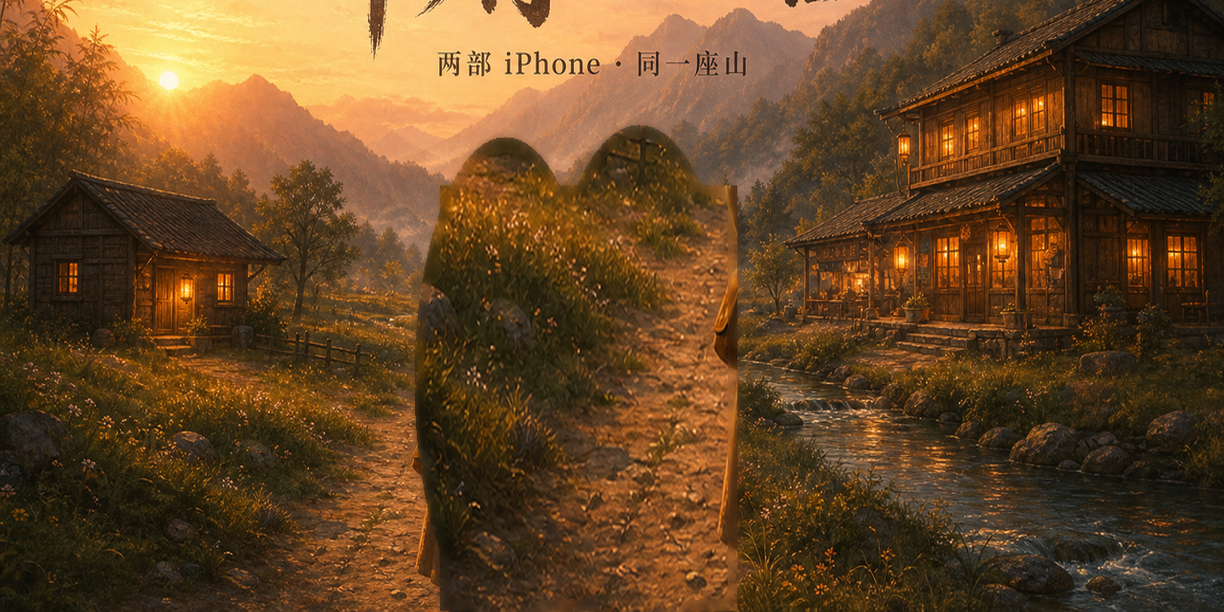
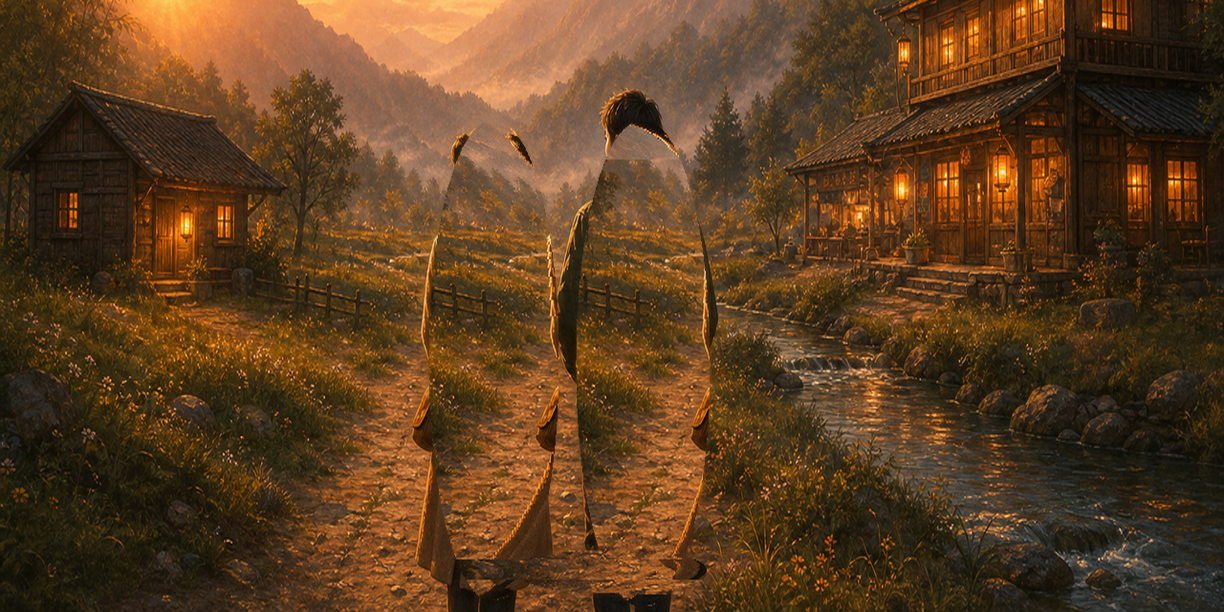
Strip valley overlays so the enter frame is one painting.
Crops stay in logic but are not hung on the bed. Hide the valley atlas.
Lift baked coats with a same-y path clone and crop the cover title off.
Give the cover coats a path contact shadow.

diff --git a/godot/project.test.ts b/godot/project.test.ts
@@ -160,7 +160,9 @@ test("Valley look is one dusk illustration, not DST stickers", () => {
   assert.match(playSrc, /ValleyWorld/);
   assert.doesNotMatch(valley, /prop-cover-tree|prop-cover-lamp|prop-cover-shore|prop-cover-verge|prop-hut|prop-lodge/);
   assert.doesNotMatch(logic, /prop-cover-tree|prop-cover-lamp|prop-cover-shore|prop-cover-verge|prop-hut|prop-lodge/);
+  assert.doesNotMatch(logic, /Look\.hung/);
   assert.doesNotMatch(playSrc, /prop-cover-tree|prop-hut\.png|prop-lodge\.png/);
+  assert.match(playSrc, /_tiles\.is_empty\(\) or _zone == "valley"/);
   assert.doesNotMatch(valley, /prop-mine\.png/);
   assert.doesNotMatch(valley, /prop-stall\.png/);
   assert.doesNotMatch(valley, /prop-anvil\.png/);
@@ -228,7 +230,10 @@ test("Valley look is one dusk illustration, not DST stickers", () => {
   const bedPaint = readFileSync("tools/paint_valley_bed.py", "utf8");
   assert.match(bedPaint, /Does not touch the cover/);
   assert.match(bedPaint, /bed-valley/);
+  assert.match(bedPaint, /CROP_Y0 = 302/);
+  assert.match(bedPaint, /PATH_LO, PATH_HI/);
   assert.doesNotMatch(bedPaint, /save\(.*cover-valley/);
+  assert.doesNotMatch(bedPaint, /resize\(\(x1 - x0/);
   assert.doesNotMatch(valley, /floor-valley|ground-valley|_bend\(/);
   assert.doesNotMatch(valley, /band-river|band-path|band-meadow/);
   const floorPaint = readFileSync("tools/paint_valley_sit.py", "utf8");
@@ -352,7 +357,11 @@ test("Godot village shows crops, fortune and the dawn board from the same snap",
   const valley = readFileSync("godot/scripts/valley_logic.gd", "utf8");
   assert.match(valley, /show_crops/);
   assert.match(valley, /prop-tuft|prop-bush/);
+  assert.doesNotMatch(valley, /Look\.hung/);
+  assert.doesNotMatch(valley, /add_child\(_crop_at/);
   assert.doesNotMatch(valley, /prop-cabin|prop-inn/);
+  assert.match(play, /_zone == "valley"/);
+  assert.match(play, /_atlas\.visible = false/);
   const world = readFileSync("src/sim/world.ts", "utf8");
   assert.match(world, /没有种。田不用浇/);
   assert.match(world, /也得对着铺/);

diff --git a/tools/paint_valley_bed.py b/tools/paint_valley_bed.py
@@ -13,42 +13,88 @@ OUT = ROOT / "godot/assets/art/bed-valley.png"
 
 # World size (TILE 36 × 34×17).
 W, H = 1224, 612
+# Below 并肩山谷 and 「两部 iPhone · 同一座山」. Lodge roof stays in frame.
+CROP_Y0 = 302
+# Same-row dirt path, left of the pair. Never a resized plate.
+PATH_LO, PATH_HI = 220, 448
 
 
 def _people_mask(h: int, w: int) -> np.ndarray:
+    """Tight 暖 / 松 / 点灯进谷. Leave a path gap between the coats."""
     yy, xx = np.ogrid[:h, :w]
-    warm = ((xx - 528) / 95.0) ** 2 + ((yy - 530) / 200.0) ** 2 <= 1.0
-    pine = ((xx - 668) / 100.0) ** 2 + ((yy - 530) / 210.0) ** 2 <= 1.0
-    pair = (xx >= 460) & (xx <= 770) & (yy >= 370) & (yy <= 718)
-    return warm | pine | pair
+    warm = ((xx - 516) / 66.0) ** 2 + ((yy - 548) / 162.0) ** 2 <= 1.0
+    pine = ((xx - 672) / 68.0) ** 2 + ((yy - 550) / 164.0) ** 2 <= 1.0
+    bag = ((xx - 482) / 24.0) ** 2 + ((yy - 556) / 46.0) ** 2 <= 1.0
+    cta = ((xx - 640) / 96.0) ** 2 + ((yy - 692) / 13.0) ** 2 <= 1.0
+    return warm | pine | bag | cta
+
+
+def _dilate(mask: np.ndarray, radius: int = 2) -> np.ndarray:
+    img = Image.fromarray((mask.astype(np.uint8) * 255), "L")
+    img = img.filter(ImageFilter.MaxFilter(radius * 2 + 1))
+    return np.asarray(img) > 127
+
+
+def _safe_path(mask_row: np.ndarray, w: int) -> np.ndarray:
+    cols = [x for x in range(PATH_LO, min(PATH_HI, w)) if not mask_row[x]]
+    if len(cols) < 8:
+        cols = [x for x in range(180, min(PATH_HI, w)) if not mask_row[x]]
+    return np.asarray(cols, dtype=np.int32)
+
+
+def _runs(xs: np.ndarray) -> list[tuple[int, int]]:
+    out: list[tuple[int, int]] = []
+    start = int(xs[0])
+    prev = start
+    for raw in xs[1:]:
+        x = int(raw)
+        if x == prev + 1:
+            prev = x
+            continue
+        out.append((start, prev + 1))
+        start = x
+        prev = x
+    out.append((start, prev + 1))
+    return out
 
 
 def lift_cover(rgb: np.ndarray) -> np.ndarray:
-    """One dirt plate over baked 暖/松 and 点灯进谷. Do not tile scraps."""
+    """1:1 same-y path clone per coat. No nearest-column pillar, no resized plate."""
+    h, w = rgb.shape[:2]
+    core = _dilate(_people_mask(h, w), 2)
     out = rgb.copy()
-    mask = _people_mask(*rgb.shape[:2])
-    ys, xs = np.where(mask)
-    x0, x1 = int(xs.min()), int(xs.max()) + 1
-    y0, y1 = int(ys.min()), int(ys.max()) + 1
-    dirt = Image.fromarray(rgb[500:720, 190:450], "RGB").resize((x1 - x0, y1 - y0), Image.Resampling.LANCZOS)
-    plate = np.asarray(dirt)
-    local = mask[y0:y1, x0:x1]
-    hole = out[y0:y1, x0:x1]
-    hole[local] = plate[local]
-    out[y0:y1, x0:x1] = hole
-    ring = Image.fromarray((mask.astype(np.uint8) * 255), "L").filter(ImageFilter.GaussianBlur(8))
-    alpha = np.asarray(ring).astype(np.float32) / 255.0
-    edge = (alpha > 0.05) & (alpha < 0.88)
-    blur = np.asarray(Image.fromarray(out).filter(ImageFilter.GaussianBlur(3)))
-    t = np.clip((alpha - 0.05) / 0.83, 0, 1)[:, :, None]
-    mixed = (out.astype(np.float32) * (1.0 - t) + blur.astype(np.float32) * t).astype(np.uint8)
-    out = np.where(edge[:, :, None], mixed, out)
+    for y in range(h):
+        bad = np.flatnonzero(core[y])
+        if bad.size == 0:
+            continue
+        safe = _safe_path(core[y], w)
+        for x0, x1 in _runs(bad):
+            width = x1 - x0
+            src0 = x0 - width
+            src1 = x0
+            if src0 >= 0 and not np.any(core[y, src0:src1]):
+                out[y, x0:x1] = rgb[y, src0:src1]
+                continue
+            if safe.size >= width:
+                out[y, x0:x1] = rgb[y, safe[-width:]]
+            elif safe.size:
+                t = np.linspace(0, safe.size - 1, width)
+                out[y, x0:x1] = rgb[y, safe[np.round(t).astype(np.int32)]]
+    ring = np.asarray(
+        Image.fromarray((core.astype(np.uint8) * 255), "L").filter(ImageFilter.GaussianBlur(5))
+    ).astype(np.float32) / 255.0
+    edge = (ring > 0.04) & (ring < 0.92) & (~core)
+    if np.any(edge):
+        blur = np.asarray(Image.fromarray(out).filter(ImageFilter.GaussianBlur(2)))
+        t = np.clip((ring - 0.04) / 0.88, 0, 1)[:, :, None]
+        mixed = (out.astype(np.float32) * (1.0 - t) + blur.astype(np.float32) * t).astype(np.uint8)
+        out = np.where(edge[:, :, None], mixed, out)
     return out
 
 
 def compose(clean: np.ndarray) -> Image.Image:
-    """One continuous scale. Crop the title sky so play has valley, not 字."""
-    band = clean[218:720, 0:1280]
+    """One continuous scale. Crop title sky so play has valley, not 字."""
+    band = clean[CROP_Y0:720, 0:1280]
     bed = Image.fromarray(band, "RGB").resize((W, H), Image.Resampling.LANCZOS)
     return bed
 

diff --git a/production/qa/evidence/packed-bed-evidence.md b/production/qa/evidence/packed-bed-evidence.md
@@ -6,26 +6,41 @@
 
 ## What changed
 
-- New graph: `godot/scenes/play.tscn` → `godot/scenes/valley.tscn` (`ValleyWorld` + `Bed` + `ValleyLogic`)
-- Look: `godot/assets/art/bed-valley.png` 1224×612 RGB, derived from the cover, title cropped, baked people hard-filled
-- Torn out: `godot/scripts/valley_map.gd` sticker stamps (`_houses`, `_ridge`, `_shore`, `_bits`, `_land`)
+- Graph: `godot/scenes/play.tscn` → `godot/scenes/valley.tscn` (`ValleyWorld` + `Bed` + `ValleyLogic`)
+- Look: `godot/assets/art/bed-valley.png` 1224×612 RGB from the cover. Title cropped at `CROP_Y0 = 302`. Baked 暖/松 / 点灯进谷 lifted with same-y 1:1 path clone (no resized dirt plate).
+- Play valley: no hung `prop-tuft` / `prop-bush`. Atlas hidden when `_zone == "valley"`.
+- Actors: larger under-foot contact shadow. `person_mat` edge 0 so feet are not eaten.
+- Torn out: `godot/scripts/valley_map.gd` sticker stamps.
+
+## Where the screenshot dirt came from
+
+| What Brainbird saw | Source | Fix |
+|---|---|---|
+| Semi-transparent mounds + wrong-scale pillar | `ValleyLogic.show_crops` → `Look.hung(prop-tuft/prop-bush)` + dusk edge + contact ellipses | `show_crops` still walks plots; does not add sprites |
+| Floating mosaic brown block | `play.gd` `_paint_atlas` on valley tiles (34×17, cell 4) | `_atlas.visible = false` when zone is valley |
+| Title 「两部 iPhone」 + dirt plate | `paint_valley_bed.py` crop y=218 + resized pair plate | Crop 302; 1:1 path clone |
+| Feet not in the path | Small east-only `Look.contact(BODY * 0.45)` | Wider stain under the feet; shader edge 0 |
+
+FAIL `prop-cover-*` / `prop-hut` / `prop-lodge` were not put back.
 
 ## Acceptance
 
 | Criterion | Result |
 |-----------|--------|
 | Packed scenes | `play.tscn`, `valley.tscn` |
-| One bed | `bed-valley.png` RGB, no alpha leftover |
+| One bed | `bed-valley.png` RGB 1224×612, no alpha leftover |
 | FAIL props unused | not referenced by valley/play scripts |
 | FAIL files on disk | hashes unchanged |
 | Cover read-only | hash `64663412fa85294e` |
 | No 魂 / DST face | play scripts unchanged |
-| Crops / ROWS | `valley_logic.gd` |
+| Crops / ROWS | `show_crops` + `prop-tuft` / `prop-bush` names; no `Look.hung` |
+| Valley atlas | hidden |
+| Contact shadow | `ActorView` uses `Look.contact` + `SHADOW_EAST` under the feet |
 
 ## Manual
 
-Enter camera should show hut + path + painted trees, live `char-warm` / `char-pine`, wood HUD `日 0 · 春 · 白天 · 金 20`. No sticker quads.
+Enter camera: one dusk painting, live `char-warm` / `char-pine` on the path with a foot stain, wood HUD. No crop mounds, no atlas mosaic, no title calligraphy, no FAIL stickers.
 
 ## Sign-off
 
-Lean rebuild. Visual polish is `/team-polish`.
+`/team-polish` lean (director spawn skipped). Visual/Feel evidence for `/story-done`.

diff --git a/production/session-state/active.md b/production/session-state/active.md
@@ -1,16 +1,14 @@
 # Session state
 
-- Task: Full redesign — studio docs + packed painted valley
-- Status: Foundation implemented
-- Review: lean (no chat gates)
-- Files: `design/gdd/systems-index.md`, `docs/architecture/*`, `production/epics/r1-*`, `godot/scenes/valley.tscn`, `godot/scenes/play.tscn`
-- Torn out: `godot/scripts/valley_map.gd`
-- Next: `/team-polish` the valley bed, then `/story-done production/epics/r1-painted-valley/story-001-packed-bed.md`
+- Task: `/team-polish` the packed valley bed (PR #2)
+- Status: Polish implemented — enter camera must be one painting + people + HUD
+- Review: lean (no chat gates; director/agent spawn skipped)
+- Files: `valley_logic.gd`, `play.gd`, `actor_view.gd`, `look.gd`, `tools/paint_valley_bed.py`, `bed-valley.png`
+- Next: `/story-done production/epics/r1-painted-valley/story-001-packed-bed.md` only if the enter shot is clean
 
-## Session Extract — /dev-story 2026-08-15
+## Session Extract — /team-polish 2026-08-15
 
-- Story: `production/epics/r1-painted-valley/story-001-packed-bed.md`
-- Files changed: valley_world.gd, valley_logic.gd, valley.tscn, play.tscn, play.gd, app.gd, bed-valley.png
-- Test written: locks in `godot/project.test.ts`
-- Blockers: None
-- Next: `/team-polish` then `/code-review` / `/story-done`
+- Area: painted valley bed
+- Dirt sources: hung crops (mounds/pillar), valley atlas (mosaic block), bed plate + title crop, tiny foot shadow
+- FAIL stickers: not restored
+- Next: headless enter shot, then story-done if the frame is only bed + coats + HUD

diff --git a/production/epics/r1-painted-valley/story-001-packed-bed.md b/production/epics/r1-painted-valley/story-001-packed-bed.md
@@ -29,10 +29,13 @@
 - [x] No rectangular sticker box; no leftover dusk RGB in transparent pixels
 - [x] Logic ROWS + `show_crops` still work
 - [x] No 魂; no Don't Starve face; no second pack
+- [x] Play valley does not hung tuft/bush or show the tile atlas
+- [x] Bed crop sits below 「两部 iPhone」; no resized dirt plate
+- [x] Cover-coat feet have a path contact shadow
 
 ## Implementation Notes
 
-From ADR-0001 / ADR-0003: packed scene graph; `tools/paint_valley_bed.py` writes only the bed; hard-fill path under baked people; crop title off the play sheet. Delete sticker `valley_map.gd`. Headless uses `ValleyWorld`.
+From ADR-0001 / ADR-0003: packed scene graph; `tools/paint_valley_bed.py` writes only the bed; same-y 1:1 path clone under baked people; crop title at y=302. Delete sticker `valley_map.gd`. Headless uses `ValleyWorld`. `/team-polish`: no hung crops on the bed, hide valley atlas, stronger foot stain.
 
 ## Out of Scope
 
@@ -56,7 +59,7 @@ From ADR-0001 / ADR-0003: packed scene graph; `tools/paint_valley_bed.py` writes
 
 **Story Type**: Visual/Feel
 **Required evidence**: `production/qa/evidence/packed-bed-evidence.md` + `godot/project.test.ts`
-**Status**: [ ] creating this rebuild
+**Status**: [x] polish pass — enter shot must be one painting + people + HUD
 
 ## Dependencies
 
